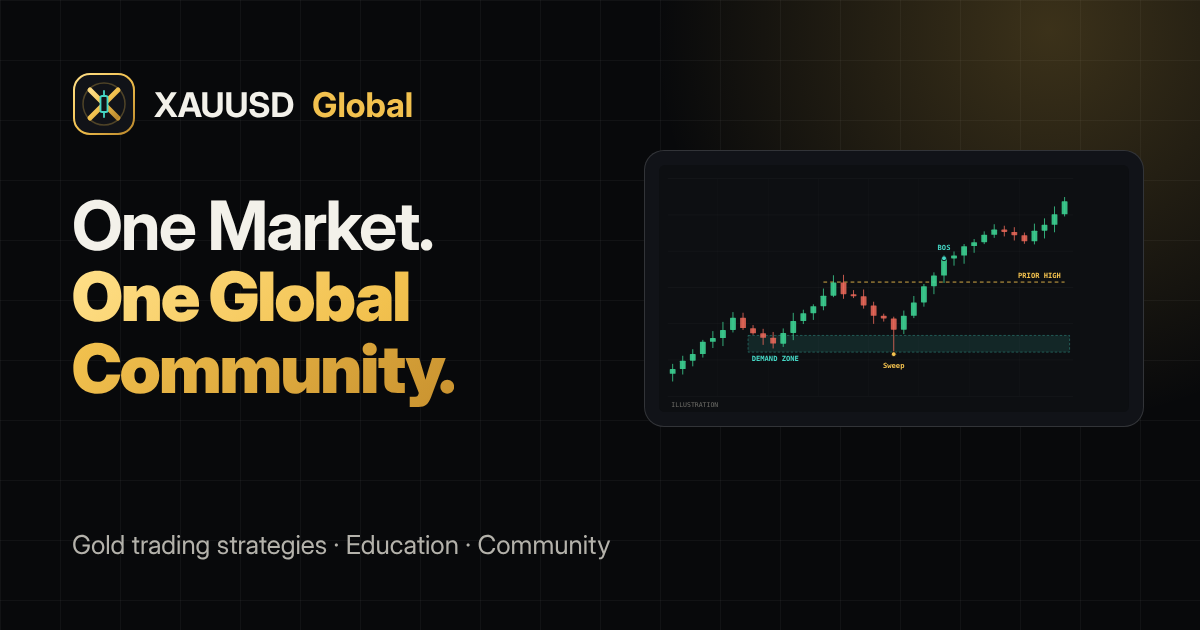
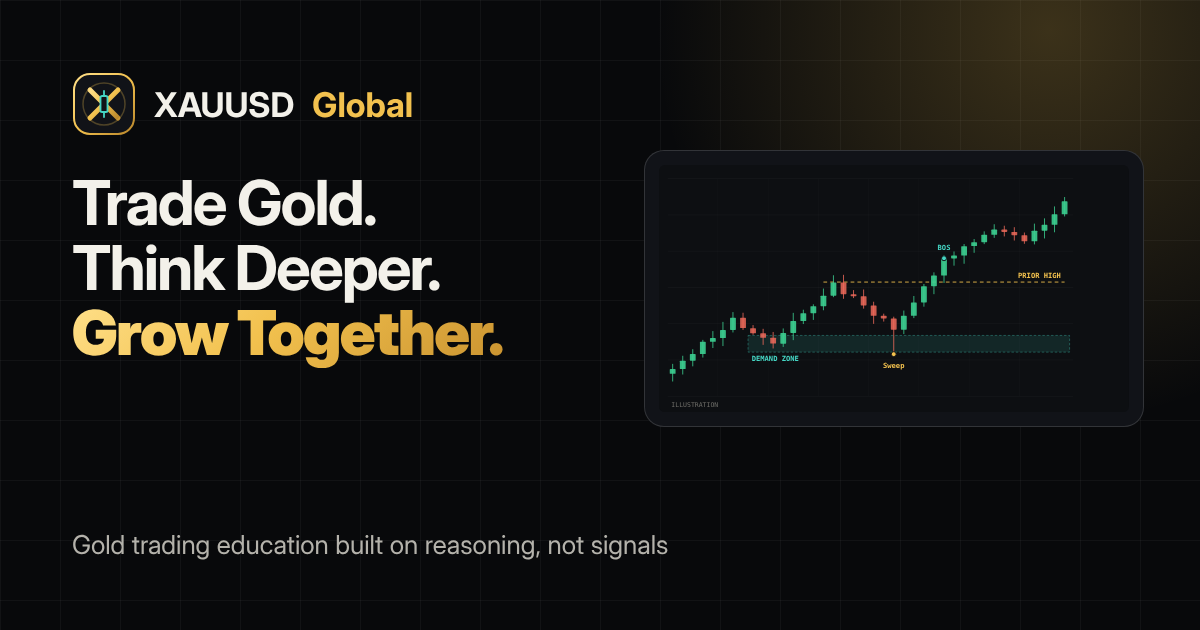
New homepage share image with 'Trade Gold. Think Deeper. Grow Together.'
Claude-Session: https://claude.ai/code/session_01YJ6gYxRh923PqFuAcgVF2m

Changed region(s): [[0.0617, 0.2714, 0.4317, 0.6635], [0.185, 0.8444, 0.555, 0.9048]]

diff --git a/index.html b/index.html
@@ -17,7 +17,7 @@
 <meta property="og:image" content="https://www.xauusdglobal.com/assets/images/og-default.png">
 <meta property="og:image:width" content="1200">
 <meta property="og:image:height" content="630">
-<meta property="og:image:alt" content="XAUUSD Global — One Market. One Global Community.">
+<meta property="og:image:alt" content="XAUUSD Global — Trade Gold. Think Deeper. Grow Together.">
 
 <meta name="twitter:card" content="summary_large_image">
 <meta name="twitter:title" content="XAUUSD Global — Learn to Understand Gold, Not Chase Signals">

diff --git a/waitlist-confirmed/index.html b/waitlist-confirmed/index.html
@@ -17,7 +17,7 @@
 <meta property="og:image" content="https://www.xauusdglobal.com/assets/images/og-default.png">
 <meta property="og:image:width" content="1200">
 <meta property="og:image:height" content="630">
-<meta property="og:image:alt" content="XAUUSD Global — One Market. One Global Community.">
+<meta property="og:image:alt" content="XAUUSD Global — Trade Gold. Think Deeper. Grow Together.">
 
 <meta name="twitter:card" content="summary_large_image">
 <meta name="twitter:title" content="You&#x27;re on the Waitlist | XAUUSD Global">

diff --git a/404.html b/404.html
@@ -17,7 +17,7 @@
 <meta property="og:image" content="https://www.xauusdglobal.com/assets/images/og-default.png">
 <meta property="og:image:width" content="1200">
 <meta property="og:image:height" content="630">
-<meta property="og:image:alt" content="XAUUSD Global — One Market. One Global Community.">
+<meta property="og:image:alt" content="XAUUSD Global — Trade Gold. Think Deeper. Grow Together.">
 
 <meta name="twitter:card" content="summary_large_image">
 <meta name="twitter:title" content="Page Not Found | XAUUSD Global">

diff --git a/_build/lib.py b/_build/lib.py
@@ -415,7 +415,7 @@ def page(*, path, title, description, body, crumbs=None, og_type="website", sche
          article_meta=None, noindex=False, body_attrs=""):
     url = canonical(path)
     og_img = C.SITE_URL + "/assets/images/og-default.png"
-    og_alt = "XAUUSD Global — One Market. One Global Community."
+    og_alt = "XAUUSD Global — Trade Gold. Think Deeper. Grow Together."
     if not noindex and path != "/":
         key = og_key(path)
         OG_MANIFEST.append({"key": key, "path": path, "title": title.split(" | ")[0]})
